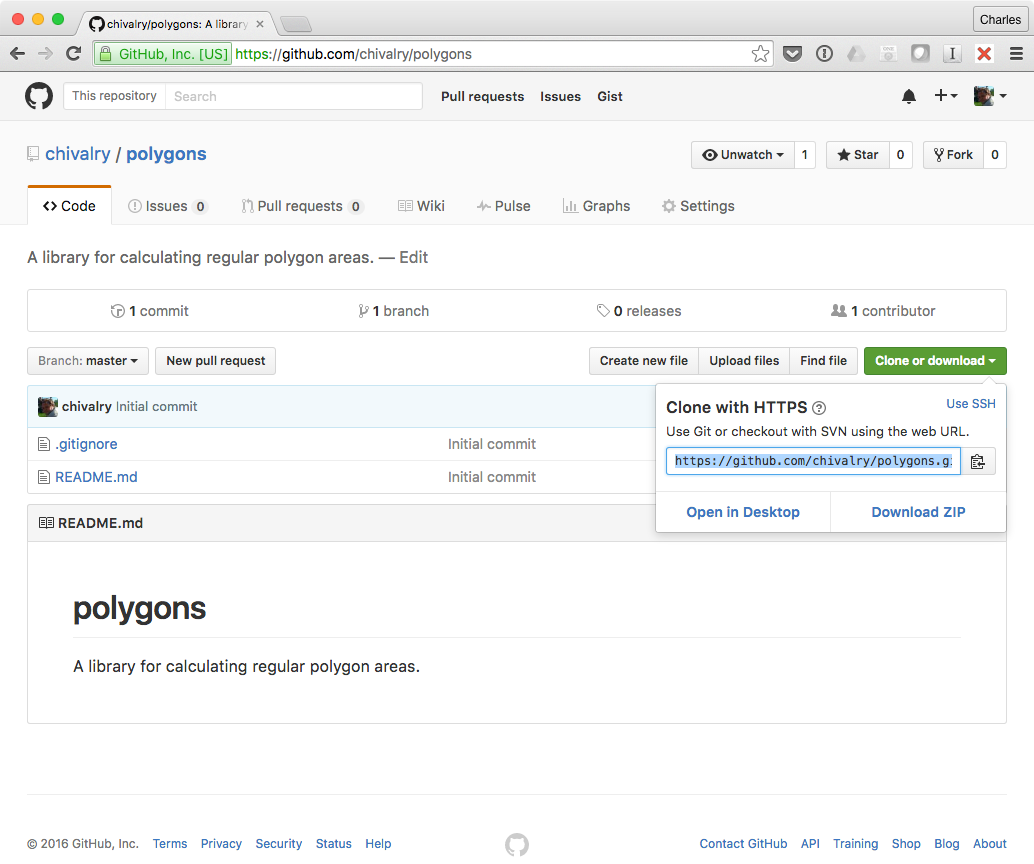
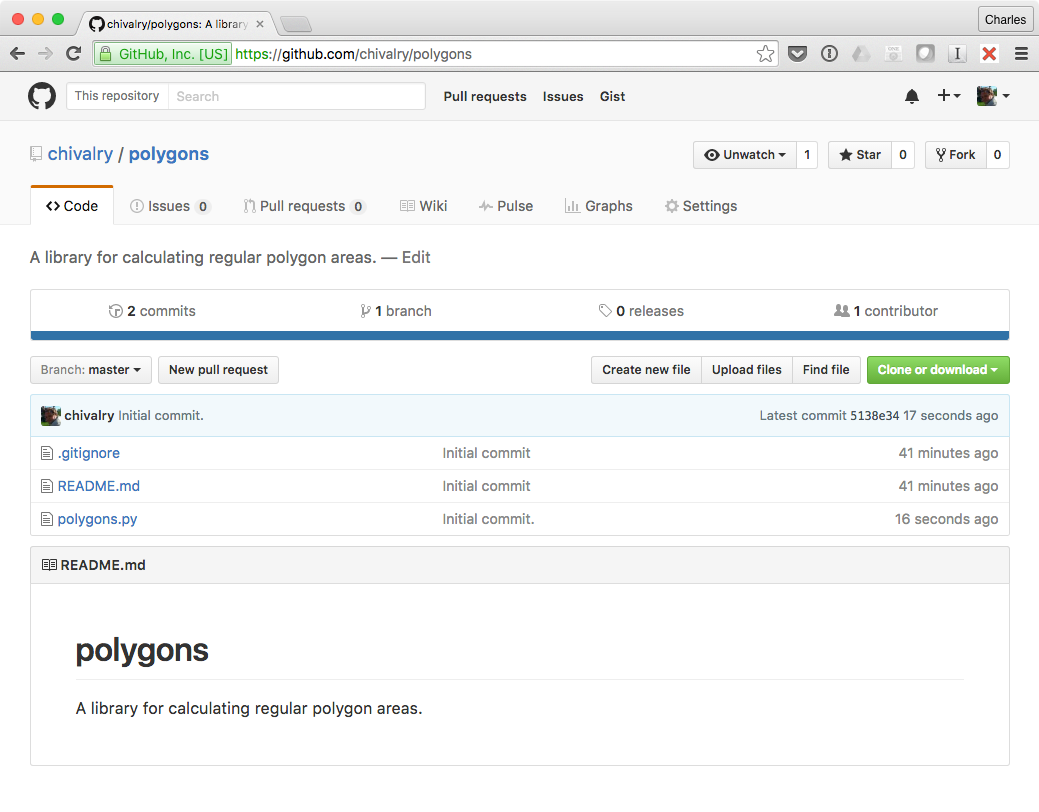
Fix typos and add other corrections.

diff --git a/README.md b/README.md
@@ -33,8 +33,11 @@ One more assumption that may be true about me but not you. I've been using Macs 
 
 I think that if you've read this far, most of the above assumptions are true, but if you don't already know Python, I can recommend a few resources that I found helpful:
 
-- [Dive Into Python 3][2]: This is a good place to learn the syntax and a bit of meta Python.
-- [The Hitchhiker's Guide to Python][3]: Here you'll find more meta Python, and a primary resource for this project.
+- The Python community is quite gracious with its publishing practices, and there are a few books that are freely available and quite helpful:
+    - [Dive Into Python 3][2]: This is a good place to learn the syntax and a bit of meta Python. I'd recommend this one to anyone who is already a programmer and wants to come up to speed with Python as quickly as possible.
+    - [The Hitchhiker's Guide to Python][3]: Here you'll find more meta Python, and a primary resource for this project.
+    - [Think Python][10]: This is the one I gave my son when he asked to learn programming. If you're new to programming in general, this one will teach Python and general programming at the same time.
+    - [A Byte of Python][11]: Another free and well-written introduction to both programming and Python simultaneously.
 - [#python][4] at [freenode.net][5]: Very helpful and very smart Python people hang out here to assist you. I use [Colloquey][8] as my IRC client, but there are [many others][9] for all platforms.
 - [Stackoverflow][6]: Probably the very best forum for asking programming questions.
 
@@ -47,13 +50,13 @@ One could cover all of the Python syntax stuff first, including modules, package
 
 Another order of teaching might be something I've seen a few times. "Here's a Python project folder structure and here's why it's the way it is." I've found these useful, but they already exist, and I don't think we need another one.
 
-Instead, I'll be going in the order which one would likely use to build an actual project. Nothing can be done until Python is installed, so that's (very quickly) covered first. A Developer would probably a git repository once they've had their initial idea, and once that's done, create a virtual environment, and then open a text editor, so those are the first three items I'll cover. Through each section, however, I'll try to concentrate first on what problem is being solved and how each tool or procedure solves that problem.
+Instead, I'll be going in the order which one would likely use to build an actual project. Nothing can be done until Python is installed, so that's (very quickly) covered first. A developer would probably create a git repository once they've had their initial idea, and once that's done, create a virtual environment, and then open a text editor, so those are the first three items I'll cover. Through each section, however, I'll try to concentrate first on what problem is being solved and how each tool or procedure solves that problem.
 
 This isn't perfect, because each developer would have a different order of priority. Heck, I've already broken this (as you'll soon see) by having an initial simple file before I create the repository or create the virtual environment. But the overall goal will be to cover material in the order one would come across it in an actual project.
 
 However, there will be a lot of material I'll leave out. There won't be much in the way of Python syntax, and there won't be much more than links while covering the initial tools (Python itself, text editing, Git and GitHub, and virtual environments). I'm honestly hesitant to even include those beginning chapters, but it seems necessary in order to be complete. While I could see leaving them out, a few weeks ago I would have needed at least the details about virtual environments, and someone else might need the details starting a little bit earlier.
 
-Finally, this will be an opinionated tutorial. I'm not going to give weigh the benefits of Python 2 versus Python 3. I've chosen Python 3. I've chosen macOS for my system, GitUp for git, Vim for text editing, pytest for testing, etc. I *may* provide links to other options, but for the most part, if you choose other tools, you'll need to look elsewhere for assistance.
+Finally, this will be an opinionated tutorial. I'm not going to weigh the benefits of Python 2 versus Python 3. I've chosen Python 3. I've chosen macOS for my system, GitUp for git, Vim for text editing, pytest for testing, etc. I *may* provide links to other options, but for the most part, if you choose other tools, you'll need to look elsewhere for assistance.
 
 > NOTE: If other contributors would like to fill in the details for these other options, I'd welcome the assistance.
 
@@ -65,6 +68,8 @@ Acknowledgements
     - malinoff
     - _habnabit
     - simpson
+    - yvear
+    - nedbat
 
 [Next: A Simple Project][7]
 
@@ -77,3 +82,5 @@ Acknowledgements
 [7]: ch_01_a_simple_project.md 'Chapter 1: A Simple Project'
 [8]: http://colloquy.info/ 'Colloquy Home'
 [9]: https://en.wikipedia.org/wiki/Comparison_of_Internet_Relay_Chat_clients 'Comparison of IRC clients'
+[10]: http://greenteapress.com/wp/think-python-2e/ 'Think Python'
+[11]: http://python.swaroopch.com/ 'A Byte of Python'

diff --git a/ch_02_the_python_dev_env.md b/ch_02_the_python_dev_env.md
@@ -78,13 +78,29 @@ Putting the Pieces Together
 
 We've got Python 3 installed, have chosen a text editor, have Git and GitHub ready, and know what virtual environments will do for us. Time to put it all together.
 
-1. Go onto your GitHub account and create a new repository called `polygons`. Take advantage of GitHubs's automation and let the site create a README and a `.gitignore` for you targeted at Python projects.
+1. Go onto your GitHub account and create a new repository called `polygons`. Take advantage of GitHub's automation and let the site create a README and a `.gitignore` for you targeted at Python projects. Use your preferred method of accessing Git to clone the repository to your local computer.
 
 ![Creating the GitHub repository][22]
 
-2. Once you have your new repository, use the "Clone or Download" popup menu to copy the repository's URL.
+2. Create `polygons.py` in the local repository with the contents shown from the [Chapter 1][23] and add it to the repository.
 
-![Get your repository's URL for cloning][23]
+3. `cd` into the repository directory and create a virtual environment with `pyvenv venv`. Here, I'm naming the virtual environment `venv`, so the `venv` module (accessed by the `pyvenv` command line tool) will create a `venv` directory. If you're interested in the details of what's *in* that directory, take a look at Real Python's article, [Python Virtual Environments - a Primer][24].
+
+> Tip: Yes, that's a lot of `venv`s (module, environment name, and directory). You can choose a different name, such as `pyvenv polygon-venv`, but I would suggest you always name your virtual environments the same thing, even if it's not `venv`. The reason is that to activate the virtual environment you need to enter a command of the form `source <virtual-environment-name>/bin/activate`. If you always have the virtual environment name be the same thing, you can create an alias in your `.bash_profile` or whatever file is executed when your shell starts up: `alias activate="source venv/bin/activate"`.
+
+<!-- separate sequential blockquotes -->
+> Note: If you let GitHub create a `.gitignore` for Python projects for you, and you named your virtual environment `venv`, you needn't worry about the environment's files being added to your repository, as `venv/` is included in GitHub's `.gitignore`. If you named it something else, you'll want to edit your `.gitignore` to exclude the virtual environment directory before you move forward.
+
+4. Add the `polygons.py` file using Git and push the updated repository to GitHub.
+
+![Our starting point][25]
+
+> Note: Yes, you *could* fork the repository I'm showing in these screenshots. Unless you're intimately familiar with how the above process works, __don't__. Do the steps yourself. Even type in the `polygons.py` code yourself. This will be the only time I give this advice. We're going to edit that file and many other files significantly. You'll get much more out of this process if you perform all of these steps yourself. I did.
+
+Conclusion
+----------
+
+We've accomplished quite a bit now. We've prepared our simple Python script to begin growing up so it can move out into the wide world. Next time we'll cover Python modules and packages (and lament the multiple definitions of "package" in the Python community).
 
 [Next: Modules][5]
 
@@ -110,4 +126,6 @@ We've got Python 3 installed, have chosen a text editor, have Git and GitHub rea
 [20]: http://coldwa.st/e/blog/2013-08-20-Cabal-sandbox.html 'Cabal Sandboxes'
 [21]: https://docs.python.org/3/library/venv.html 'venv'
 [22]: images/ch_02_fig_01.png 'Creating the GitHub repository'
-[23]: images/ch_02_fig_02.png "Get your repository's URL for cloning"
+[23]: ch_01_a_simple_project.md 'Chapter 1'
+[24]: https://realpython.com/blog/python/python-virtual-environments-a-primer/ 'Python Virtual Environments - a Primer'
+[25]: images/ch_02_fig_02.png 'Our starting point'
